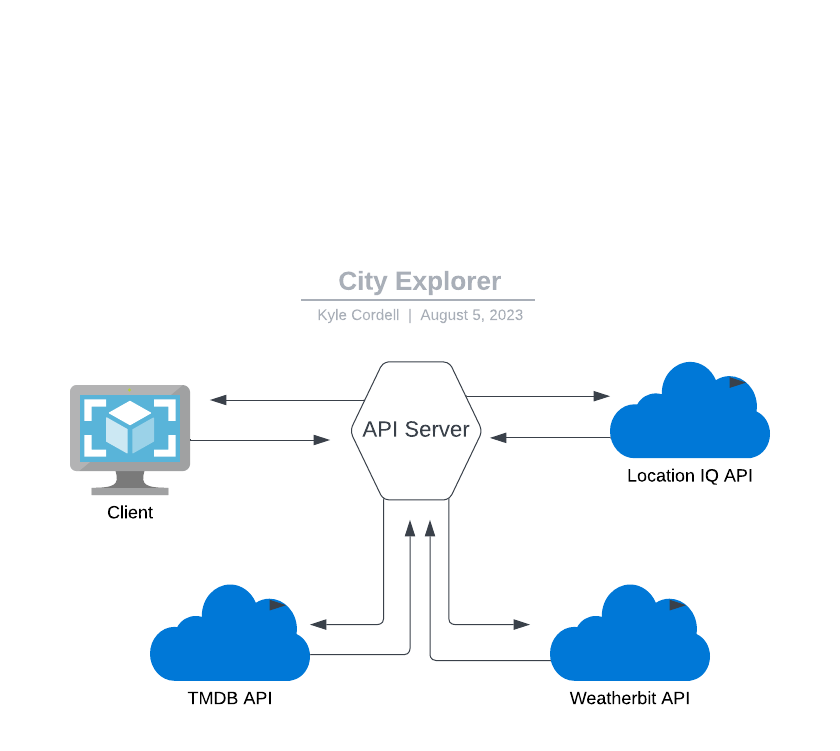
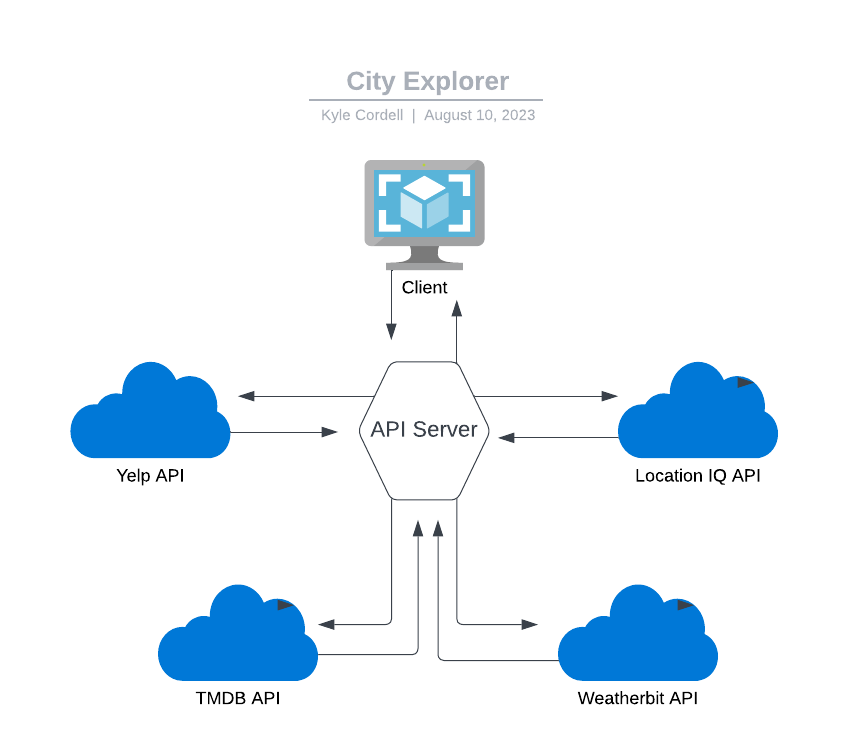
Updates README

diff --git a/README.md b/README.md
@@ -86,5 +86,23 @@ Finish time: 2pm
 Actual time needed to complete: 1hr
 ```
 
+```
+Name of feature: Implement API cache
+
+Estimate of time needed to complete: 2hr
+Start time: 7pm
+Finish time: 9pm
+Actual time needed to complete: 2hr
+```
+
+```
+Name of feature: Implement yelp API route
+
+Estimate of time needed to complete: 1hr
+Start time:
+Finish time:
+Actual time needed to complete: 1hr
+```
+
 ---
 ![wwrc](/wrrc.png)
